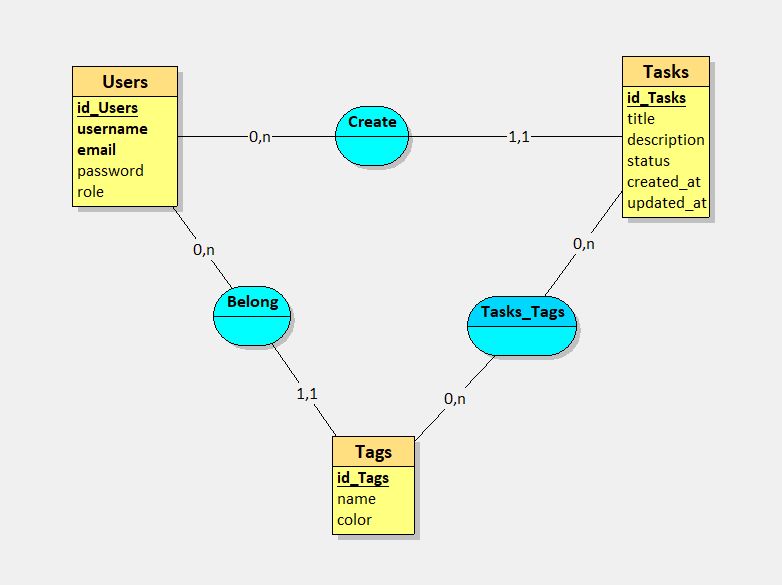
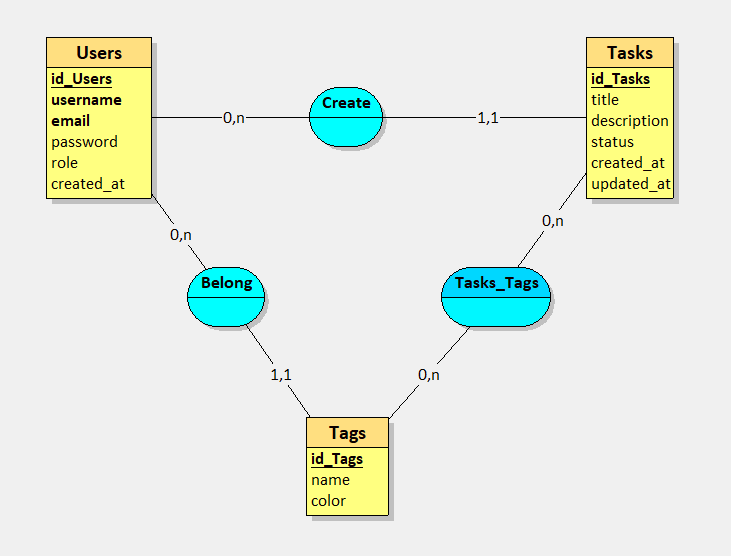
doc : Modification des different model Merise et du dictionnaire de données

diff --git a/docs/Merise-et-BDD/dictionnaire-de-donnees.md b/docs/Merise-et-BDD/dictionnaire-de-donnees.md
@@ -2,13 +2,14 @@
 
 ## Table : Users
 
-| Attribut | Type         | Description                          | Contraintes                          |
-| -------- | ------------ | ------------------------------------ | ------------------------------------ |
-| id_users | UUID         | Identifiant unique de l’utilisateur  | Clé primaire, généré automatiquement |
-| username | VARCHAR(100) | Nom d'utilisateur                    | Unique, requis                       |
-| email    | VARCHAR(150) | Adresse e-mail                       | Unique, requis                       |
-| password | VARCHAR(255) | Mot de passe (hashé)                 | Requis                               |
-| role     | VARCHAR(50)  | Rôle utilisateur (`ROLE_USER`, etc.) | Requis, validé côté backend          |
+| Attribut   | Type         | Description                          | Contraintes                          |
+| ---------- | ------------ | ------------------------------------ | ------------------------------------ |
+| id_users   | UUID         | Identifiant unique de l’utilisateur  | Clé primaire, généré automatiquement |
+| username   | VARCHAR(100) | Nom d'utilisateur                    | Unique, requis                       |
+| email      | VARCHAR(150) | Adresse e-mail                       | Unique, requis                       |
+| password   | VARCHAR(255) | Mot de passe (hashé)                 | Requis                               |
+| role       | VARCHAR(50)  | Rôle utilisateur (`ROLE_USER`, etc.) | Requis, validé côté backend          |
+| created_at | DATETIME     | Date de création                     | Par défaut : now()                   |
 
 ---
 
@@ -28,13 +29,12 @@
 
 ## Table : Tags
 
-| Attribut | Type        | Description                     | Contraintes                                                  |
-| -------- | ----------- | ------------------------------- | ------------------------------------------------------------ |
-| id_tags  | UUID        | Identifiant unique du tag       | Clé primaire                                                 |
+| Attribut | Type        | Description                     | Contraintes                                                   |
+| -------- | ----------- | ------------------------------- | ------------------------------------------------------------- |
+| id_tags  | UUID        | Identifiant unique du tag       | Clé primaire                                                  |
 | name     | VARCHAR(50) | Nom du tag                      | Requis, **unique par utilisateur** (index `(name, id_Users)`) |
-| color    | VARCHAR(10) | Couleur (format HEX)            | Requis                                                       |
-| id_Users | UUID        | Utilisateur propriétaire du tag | Clé étrangère vers Users                                     |
-
+| color    | VARCHAR(10) | Couleur (format HEX)            | Requis                                                        |
+| id_Users | UUID        | Utilisateur propriétaire du tag | Clé étrangère vers Users                                      |
 
 ---
 
